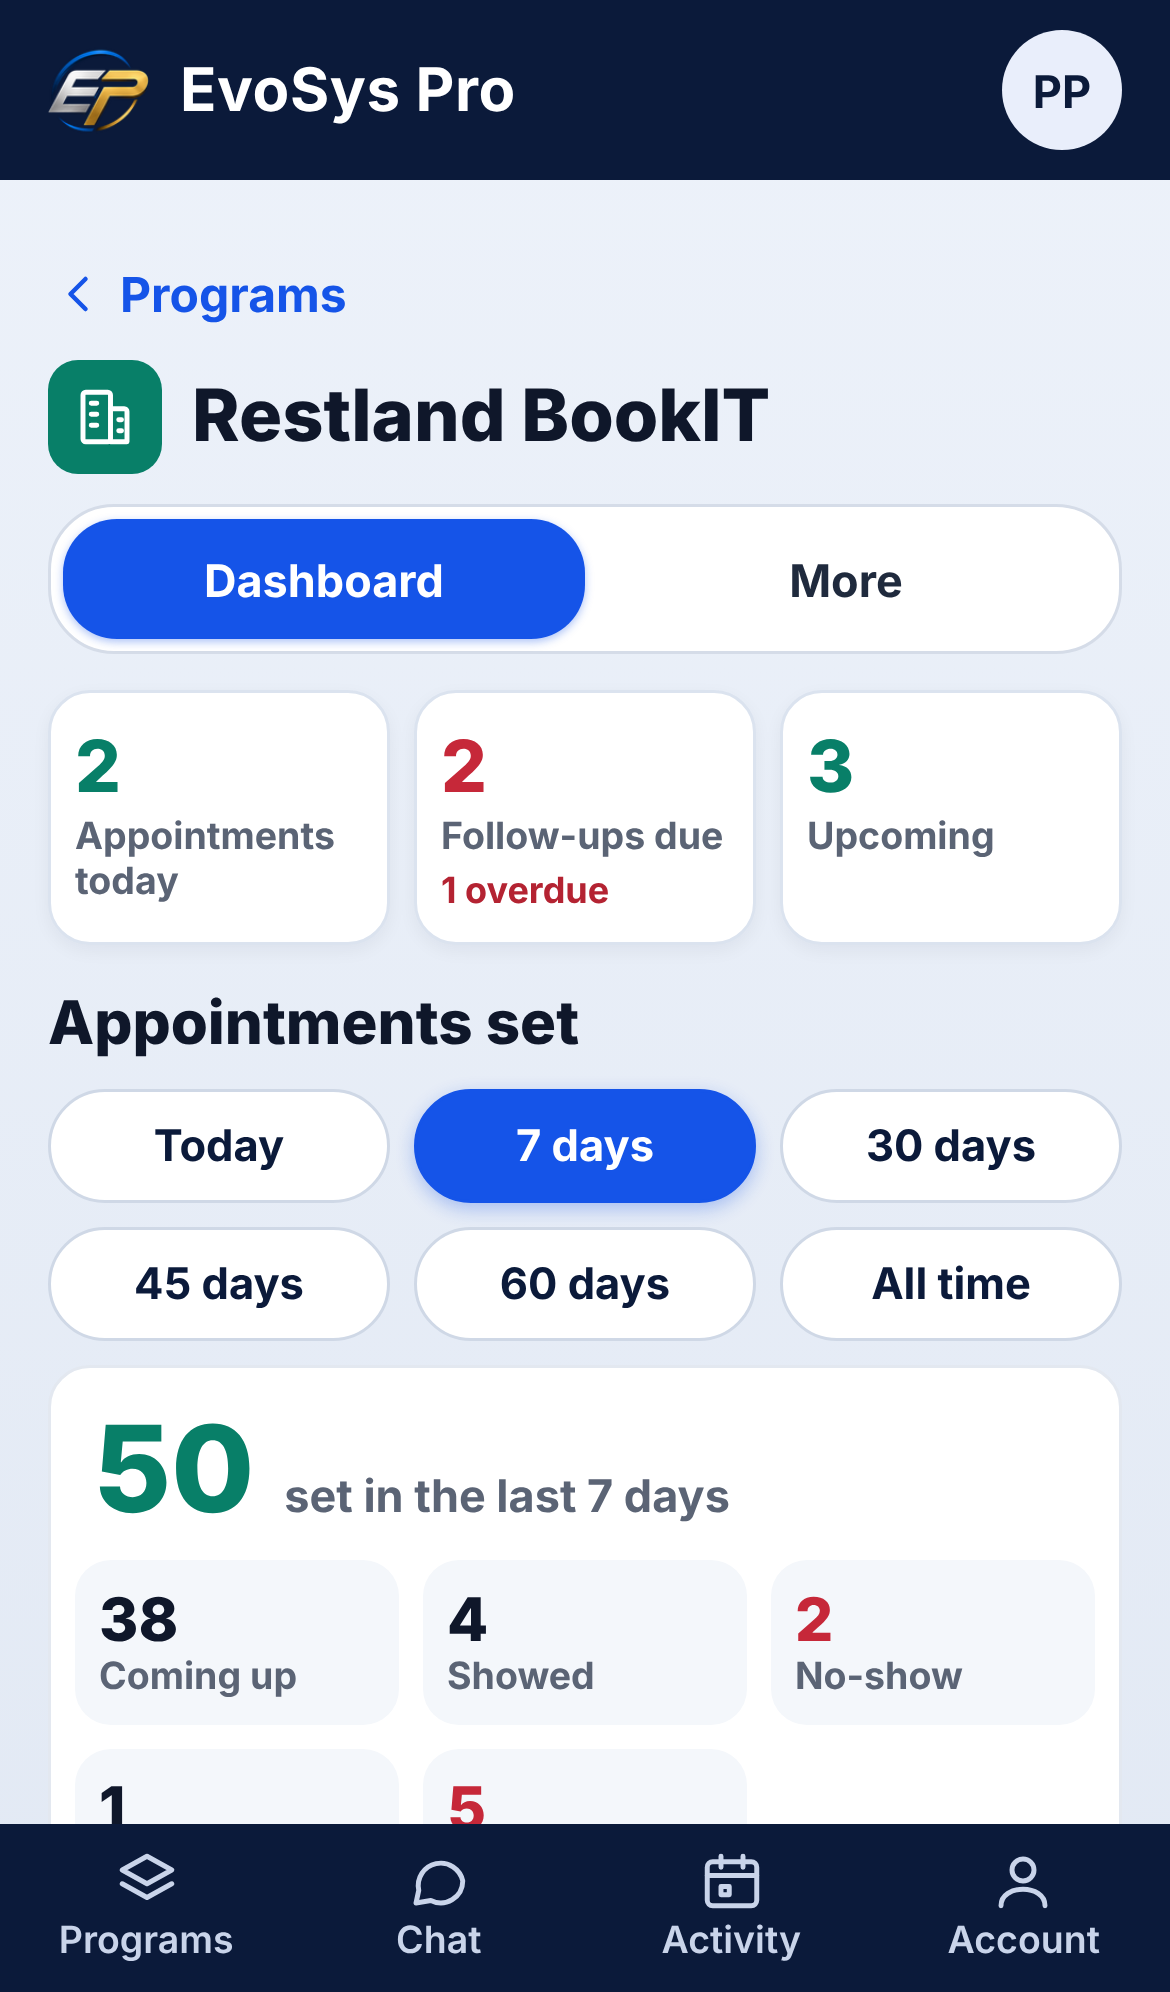
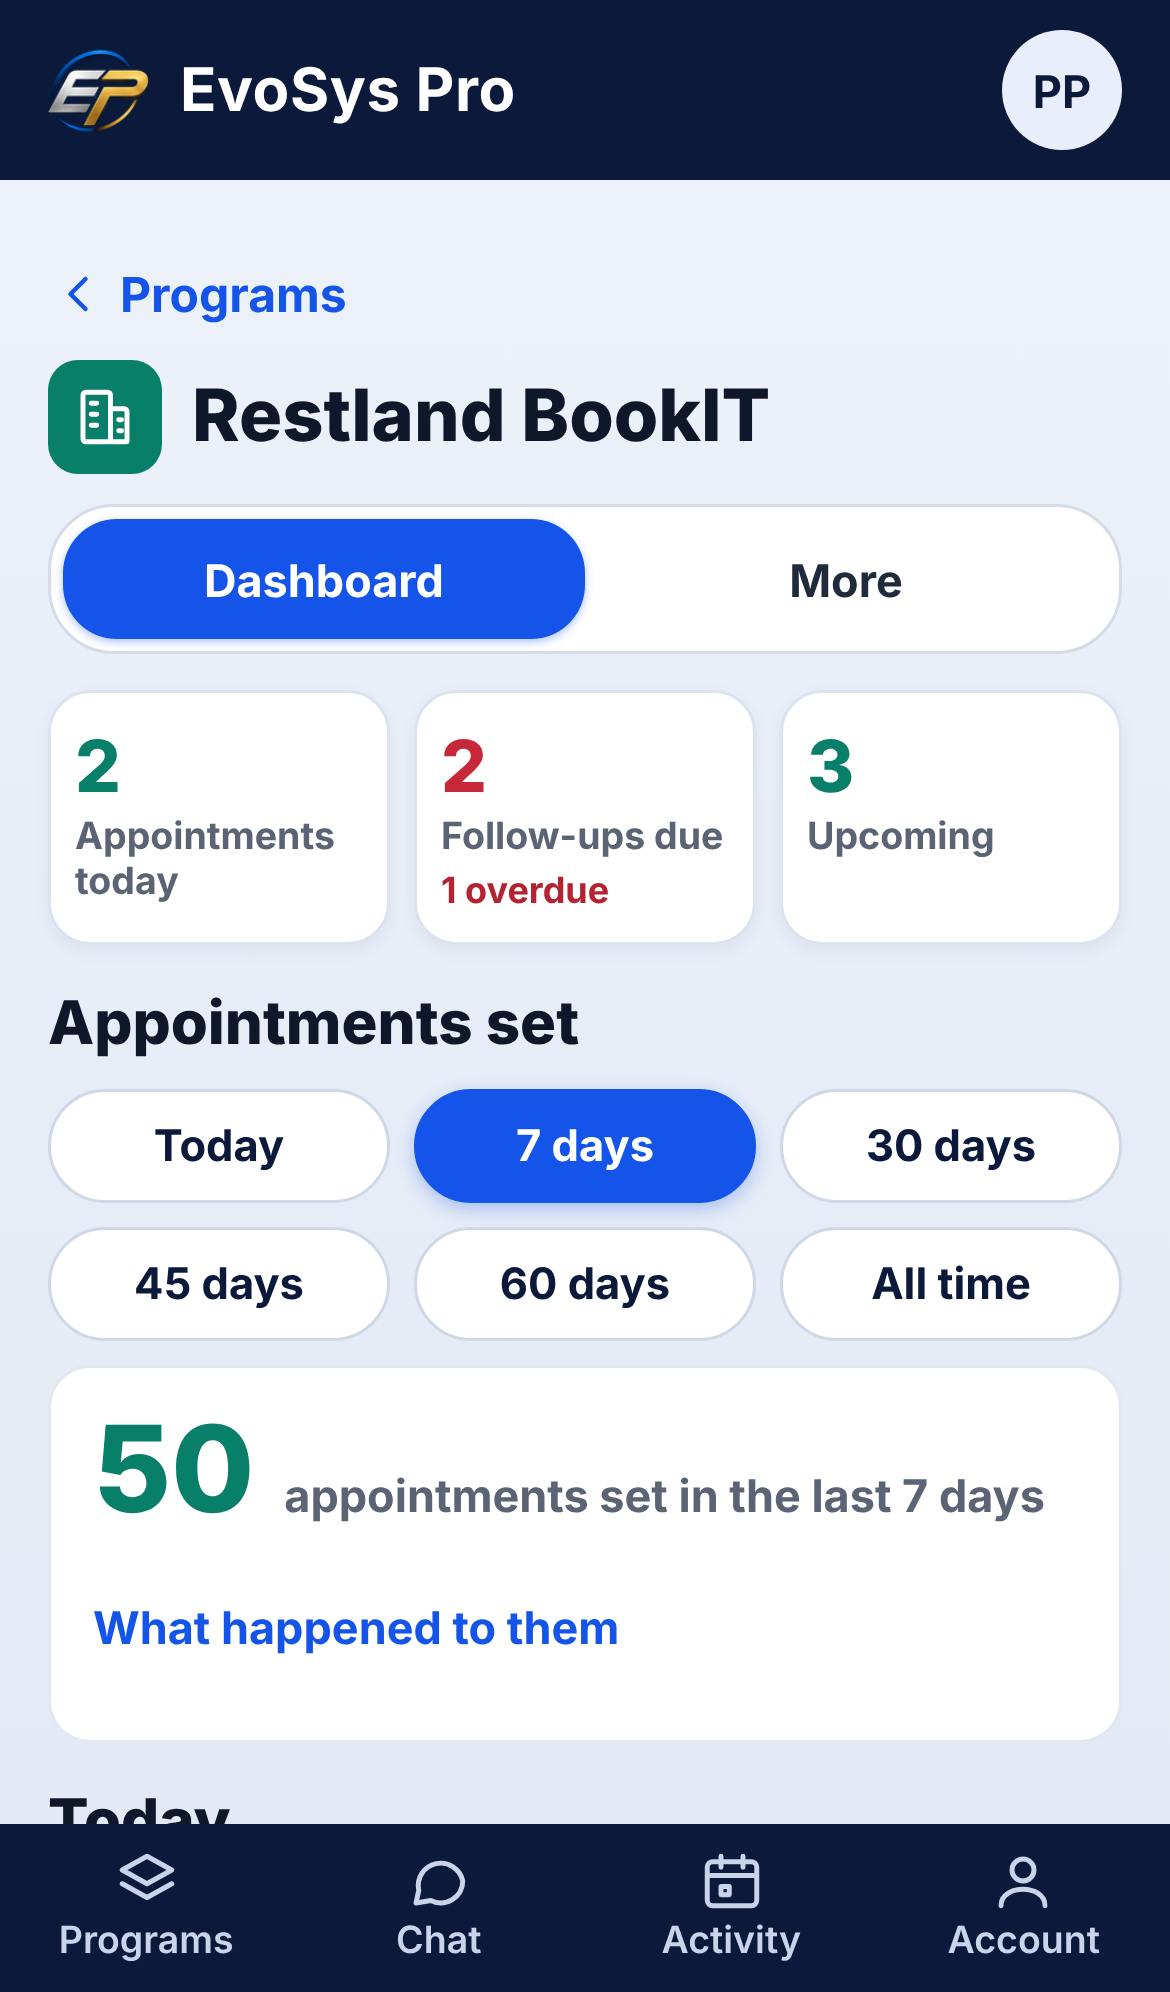
Phone BookIT: Appointments set shows one number for the chosen period; the breakdown only when tapped (#865)
Claude-Session: https://claude.ai/code/session_0185J8FFbSSUYRVtddwmr4dP

Changed region(s): [[0.0308, 0.747, 0.9538, 0.9337], [0.8, 0.747, 0.8923, 0.7781]]

diff --git a/frontend/src/teamapp/BookitPhone.jsx b/frontend/src/teamapp/BookitPhone.jsx
@@ -119,6 +119,7 @@ const SET_PARTS = [['upcoming', 'Coming up'], ['showed', 'Showed'], ['no_show', 
   ['no_result', 'No result yet'], ['cancelled', 'Cancelled', true]]
 function SetTable({ spans }) {
   const [pick, setPick] = useState('30 days')
+  const [more, setMore] = useState(false)
   const r = spans.find(x => x.label === pick) || spans[0]
   return (
     <section className="ta-section">
@@ -129,12 +130,13 @@ function SetTable({ spans }) {
                   className={'ta-chip' + (pick === key ? ' is-on' : '')} onClick={() => setPick(key)}>{label}</button>))}
       </div>
       <div className="ta-card ta-set">
-        <div className="ta-set-big"><strong>{r.set ?? 0}</strong><span>set {pick === 'Today' ? 'today' : pick === 'All time' ? 'all time' : 'in the last ' + pick}</span></div>
-        <ul className="ta-set-parts">
+        <div className="ta-set-big"><strong>{r.set ?? 0}</strong><span>appointments set {pick === 'Today' ? 'today' : pick === 'All time' ? 'all time' : 'in the last ' + pick}</span></div>
+        <button type="button" className="ta-linkbtn ta-set-more" aria-expanded={more} onClick={() => setMore(v => !v)}>
+          {more ? 'Hide details' : 'What happened to them'}</button>
+        {more && <ul className="ta-set-parts">
           {SET_PARTS.map(([k, l, bad]) => (
             <li key={k} className={bad && r[k] ? 'is-bad' : ''}><strong>{r[k] ?? 0}</strong><span>{l}</span></li>))}
-        </ul>
-        <p className="ta-muted ta-small">Counted by the day the family booked. Set includes cancelled.</p>
+        </ul>}
       </div>
     </section>
   )

diff --git a/frontend/src/teamapp/teamapp.css b/frontend/src/teamapp/teamapp.css
@@ -536,3 +536,4 @@
 .ta-set-parts li.is-bad strong { color: #C62839; }
 .ta-set-chips { display: grid; grid-template-columns: repeat(3, 1fr); overflow: visible; padding-bottom: 0; }
 .ta-set-chips .ta-chip { justify-content: center; padding: 0 6px; }
+.ta-set-more { display: block; margin: 0 6px 6px; padding: 6px 0; font-weight: 700; color: var(--ta-blue); background: none; border: 0; font: inherit; font-size: 15px; font-weight: 700; cursor: pointer; }
